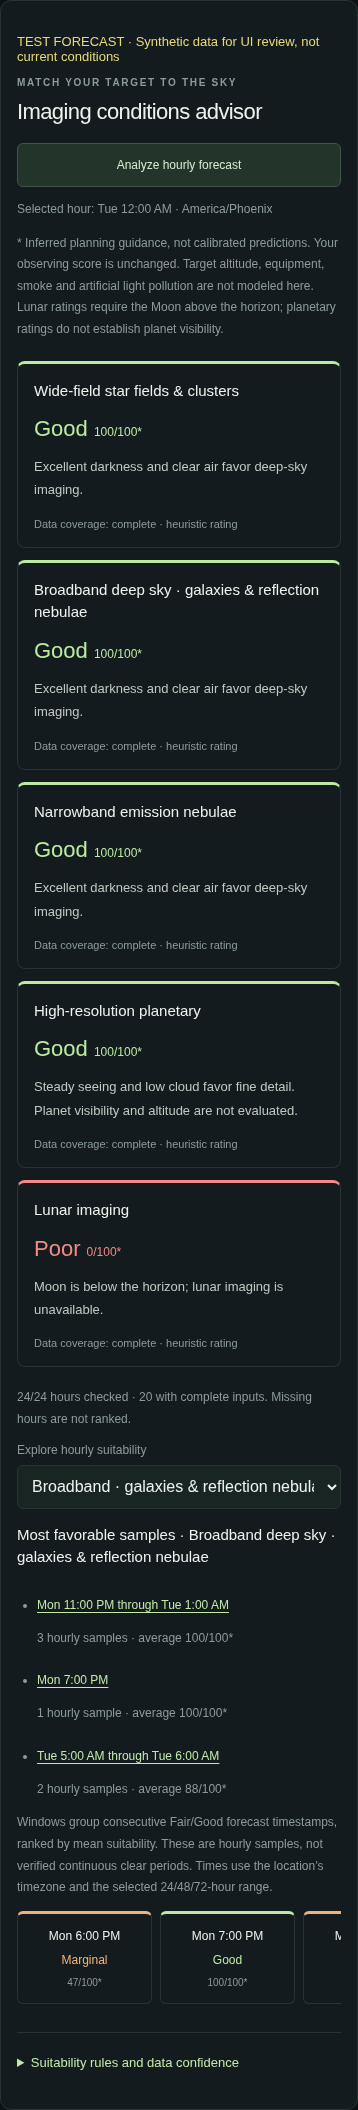
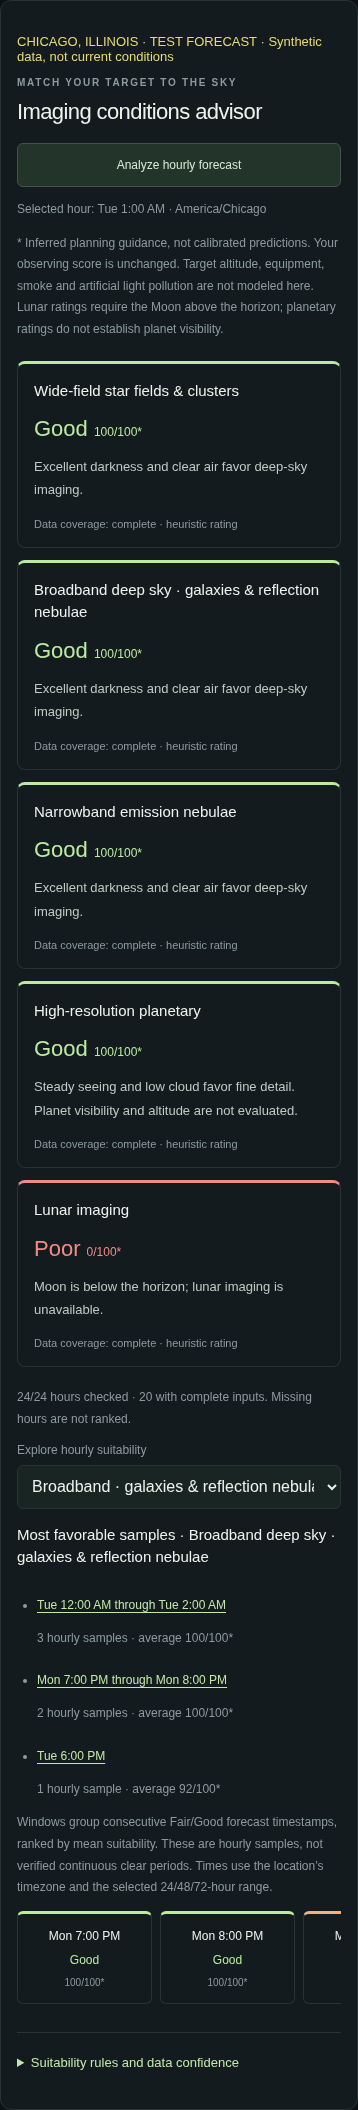
Run imaging browser regression and screenshots for Chicago

diff --git a/docs/imaging-advisor.md b/docs/imaging-advisor.md
@@ -61,6 +61,6 @@ The category selector updates an hourly strip and up to three best windows. A wi
 
 Run `node --test tests/*.test.cjs` and `node scripts/prepare-pages.cjs`. Tests cover excellent/poor/mixed/missing inputs, CMC 0 vs null and exact time/run validation, lunar visibility, relative moon tolerance, smooth penalties, configurable tables, unchanged observing score, and window gaps.
 
-Screenshots in `docs/screenshots/` use deterministic **test forecasts**, labeled in the screenshot. They illustrate behavior rather than claim current sky conditions. Browser checks cover the selected hour, category changes, hourly analysis, range changes/cancellation, original score consistency, unit switching and mobile width overflow.
+Screenshots in `docs/screenshots/` use Chicago, Illinois coordinates (41.8781, −87.6298), America/Chicago timezone, and deterministic **test forecasts**, labeled in the screenshot. They illustrate behavior rather than claim current sky conditions. Browser checks cover the selected hour, category changes, hourly analysis, range changes/cancellation, original score consistency, unit switching and mobile width overflow.
 
 For the optional browser check, serve `dist` at port 4173 (`python3 -m http.server 4173 --directory dist`), then run `node scripts/check-imaging-browser.cjs` with Playwright available. Set `CHROMIUM_PATH` if Chromium is not at `/usr/bin/chromium`. This adds no runtime dependency to the site.
